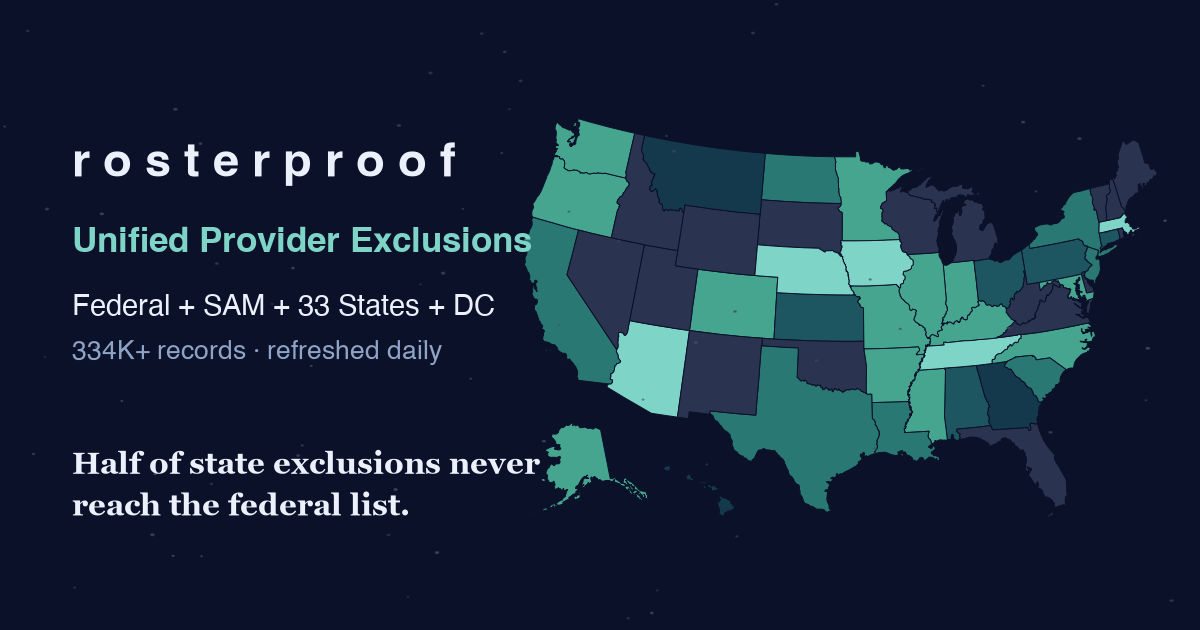
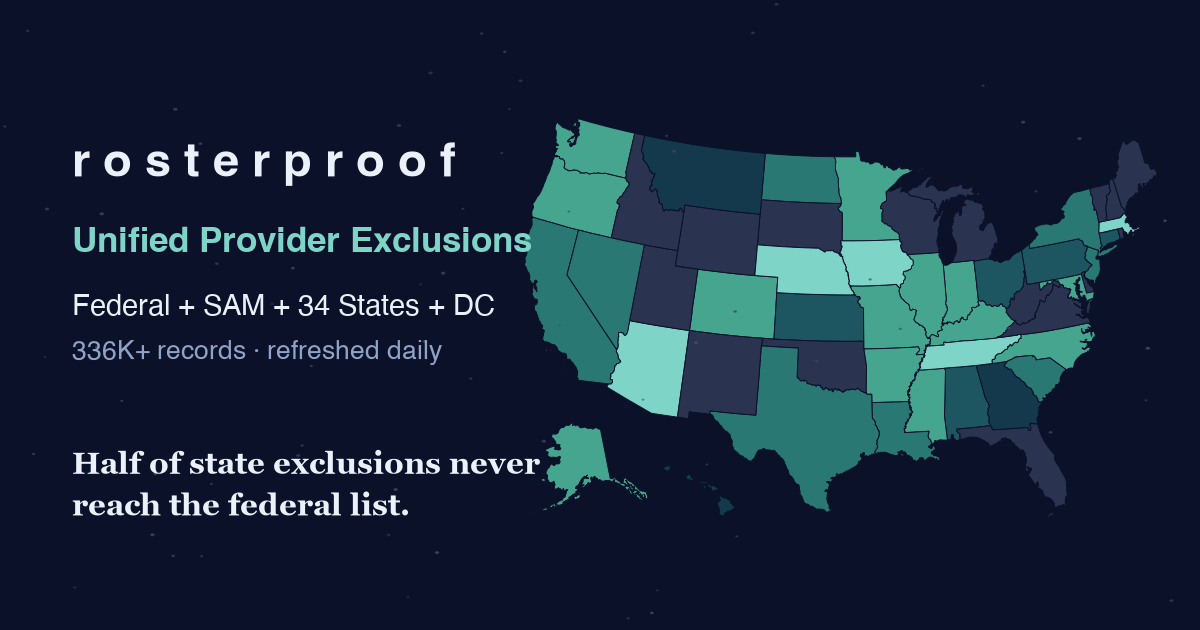
Stats: 336,102 / Federal + 34 states + DC / 54,294 verified / gap 53.1% (Nevada added)
Claude-Session: https://claude.ai/code/session_01PXfHoMXCHd5UrzFLypzow7

Changed region(s): [[0.4625, 0.3619, 0.555, 0.5429], [0.2467, 0.4524, 0.2775, 0.5127], [0.0617, 0.5429, 0.0925, 0.573]]

diff --git a/index.html b/index.html
@@ -138,10 +138,10 @@ so exclusion screening becomes a simple join in your own warehouse — no scrape
 no PDFs to retype, no blind spots between the federal list and the states.</p>
 
 <div class="stats">
-<div class="stat"><div class="big" id="st-records">334K+</div><div class="small">exclusion records, history-tracked</div></div>
-<div class="stat"><div class="big" id="st-states">Federal + 33 states + DC</div><div class="small">OIG LEIE + SAM.gov plus state Medicaid exclusion lists</div></div>
+<div class="stat"><div class="big" id="st-records">336K+</div><div class="small">exclusion records, history-tracked</div></div>
+<div class="stat"><div class="big" id="st-states">Federal + 34 states + DC</div><div class="small">OIG LEIE + SAM.gov plus state Medicaid exclusion lists</div></div>
 <div class="stat"><div class="big" id="st-gap">~53%</div><div class="small">of state exclusions never reach the federal LEIE — <a href="/federal-gap.html" style="color:#7fd4c8">see the full analysis</a></div></div>
-<div class="stat"><div class="big" id="st-npi">53K+</div><div class="small">NPPES-verified NPI matches — screen claims by NPI, not name-matching</div></div>
+<div class="stat"><div class="big" id="st-npi">54K+</div><div class="small">NPPES-verified NPI matches — screen claims by NPI, not name-matching</div></div>
 <div class="stat"><div class="big" id="st-multi">6.8K+</div><div class="small">providers excluded in 2+ jurisdictions — under ACA §6501, one state's exclusion is every state's problem</div></div>
 <div class="stat"><div class="big">Daily</div><div class="small">automated refresh with full change feed</div></div>
 </div>